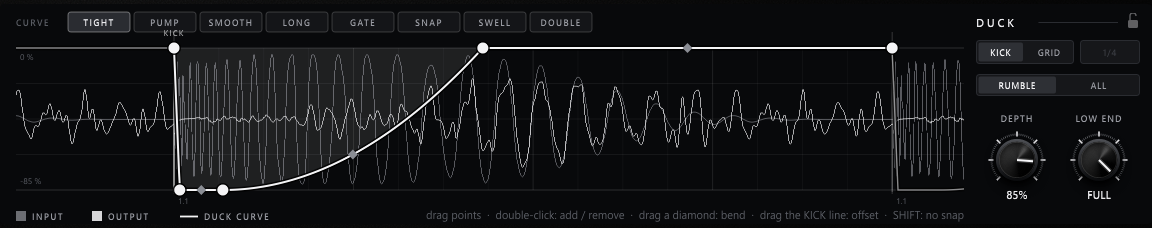
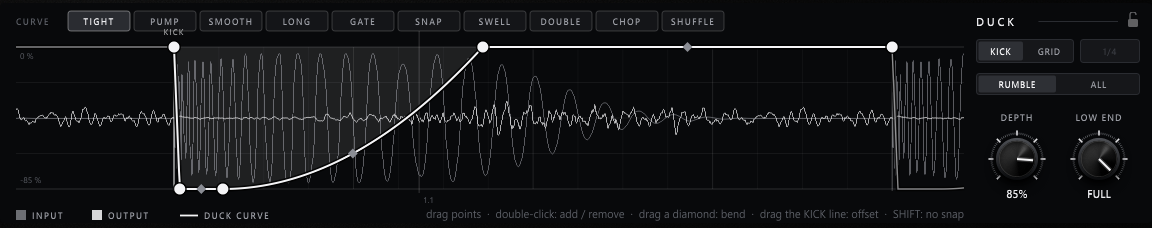
Blackveil: CHOP and SHUFFLE duck curve presets
CHOP ducks on every 16th note (a gate); SHUFFLE ducks fully on the kick, then to 45 % on the swung
8th (2/3 of the beat). Two more header buttons; RANDOM picks them, CHOP's DEPTH capped at 85 %.
Manual (EN / FR) and its duck / overview screenshots updated.

diff --git a/projects/Blackveil/Scripts/Interface.js b/projects/Blackveil/Scripts/Interface.js
@@ -395,6 +395,8 @@ const var ENGINE_CTL = {"btnFx0On": [BV_FILTER_ON, 1.0], "cmbFltType": [BV_FILTE
 const var BV_DUCK_LENGTH = 41;
 const var DUCK_LENGTHS = ["1/32", "1/16", "1/8", "1/4", "1/2", "1 BAR"];
 const var DUCK_LENGTH_BEATS = [0.125, 0.25, 0.5, 1.0, 2.0, 4.0];
+// (CHOP: a 16th-note gate, four dips a beat; SHUFFLE: a full duck, then a shallower one on the
+// swung 8th, 2/3 of the beat; 2026-10-31, user)
 const var DUCK_PRESETS = {"TIGHT": [[0, 1, 0], [0.008, 0, 0], [0.068, 0, 0], [0.43, 1, 0.4], [1, 1, 0]],
                           "PUMP": [[0, 1, 0], [0.03, 0, 0], [0.92, 1, 0.7], [1, 1, 0]],
                           "SMOOTH": [[0, 1, 0], [0.12, 0.05, -0.5], [0.8, 1, -0.3], [1, 1, 0]],
@@ -403,8 +405,13 @@ const var DUCK_PRESETS = {"TIGHT": [[0, 1, 0], [0.008, 0, 0], [0.068, 0, 0], [0.
                           "SNAP": [[0, 1, 0], [0.005, 0, 0], [0.25, 1, -0.6], [1, 1, 0]],
                           "SWELL": [[0, 1, 0], [0.01, 0, 0], [1, 1, 0.8]],
                           "DOUBLE": [[0, 1, 0], [0.01, 0, 0], [0.2, 0.7, -0.3], [0.5, 0.7, 0], [0.52, 0.2, 0],
-                                     [0.9, 1, 0.3], [1, 1, 0]]};
-const var DUCK_PRESET_NAMES = ["TIGHT", "PUMP", "SMOOTH", "LONG", "GATE", "SNAP", "SWELL", "DOUBLE"];
+                                     [0.9, 1, 0.3], [1, 1, 0]],
+                          "CHOP": [[0, 1, 0], [0.01, 0, 0], [0.2, 1, -0.5], [0.25, 1, 0], [0.26, 0, 0], [0.45, 1, -0.5],
+                                   [0.5, 1, 0], [0.51, 0, 0], [0.7, 1, -0.5], [0.75, 1, 0], [0.76, 0, 0], [0.95, 1, -0.5],
+                                   [1, 1, 0]],
+                          "SHUFFLE": [[0, 1, 0], [0.01, 0, 0], [0.4, 1, -0.5], [0.66, 1, 0], [0.68, 0.45, 0],
+                                      [0.95, 1, -0.4], [1, 1, 0]]};
+const var DUCK_PRESET_NAMES = ["TIGHT", "PUMP", "SMOOTH", "LONG", "GATE", "SNAP", "SWELL", "DOUBLE", "CHOP", "SHUFFLE"];
 var duckPts = [];
 // LENGTH is always 1/4 since 2026-10-30 (user: "we only need 1/4"): a stored or random length is
 // ignored; DUCK_LENGTHS and the stored "length" stay (presets and sessions hold one)
@@ -3108,7 +3115,7 @@ const var RAND_NO_RECIPE = {"name": "", "weight": 0, "on": [], "after": [], "kno
 const var RAND_FLT_CUTOFF = [[100, 1500], [100, 1500], [60, 250], [60, 250], [20, 60], [20, 60],
                              [100, 1500], [100, 1500], [100, 1500], [40, 200]];
 const var RAND_FLT_FLOOR = 50;            // Hz: a negative ENV takes CUTOFF no lower (but HP)
-const var RAND_DUCK_HARD = ["LONG", "GATE"];   // curves that hold the rumble down for most of the beat
+const var RAND_DUCK_HARD = ["LONG", "GATE", "CHOP"];   // curves that hold the rumble down for most of the beat (CHOP: four times)
 const var RAND_DUCK_HARD_MAX = 85;        // their DEPTH at most
 const var RAND_POWER_IDS = ["btnFx0On", "btnFx1On", "btnFx2On", "btnFx3On", "btnEqOn", "btnGrnOn"];
 var randLastRecipe = "";                  // (for tests: the last roll's recipe)

diff --git a/projects/Blackveil/Scripts/ScriptProcessors/Blackveil/Interface.js b/projects/Blackveil/Scripts/ScriptProcessors/Blackveil/Interface.js
@@ -395,6 +395,8 @@ const var ENGINE_CTL = {"btnFx0On": [BV_FILTER_ON, 1.0], "cmbFltType": [BV_FILTE
 const var BV_DUCK_LENGTH = 41;
 const var DUCK_LENGTHS = ["1/32", "1/16", "1/8", "1/4", "1/2", "1 BAR"];
 const var DUCK_LENGTH_BEATS = [0.125, 0.25, 0.5, 1.0, 2.0, 4.0];
+// (CHOP: a 16th-note gate, four dips a beat; SHUFFLE: a full duck, then a shallower one on the
+// swung 8th, 2/3 of the beat; 2026-10-31, user)
 const var DUCK_PRESETS = {"TIGHT": [[0, 1, 0], [0.008, 0, 0], [0.068, 0, 0], [0.43, 1, 0.4], [1, 1, 0]],
                           "PUMP": [[0, 1, 0], [0.03, 0, 0], [0.92, 1, 0.7], [1, 1, 0]],
                           "SMOOTH": [[0, 1, 0], [0.12, 0.05, -0.5], [0.8, 1, -0.3], [1, 1, 0]],
@@ -403,8 +405,13 @@ const var DUCK_PRESETS = {"TIGHT": [[0, 1, 0], [0.008, 0, 0], [0.068, 0, 0], [0.
                           "SNAP": [[0, 1, 0], [0.005, 0, 0], [0.25, 1, -0.6], [1, 1, 0]],
                           "SWELL": [[0, 1, 0], [0.01, 0, 0], [1, 1, 0.8]],
                           "DOUBLE": [[0, 1, 0], [0.01, 0, 0], [0.2, 0.7, -0.3], [0.5, 0.7, 0], [0.52, 0.2, 0],
-                                     [0.9, 1, 0.3], [1, 1, 0]]};
-const var DUCK_PRESET_NAMES = ["TIGHT", "PUMP", "SMOOTH", "LONG", "GATE", "SNAP", "SWELL", "DOUBLE"];
+                                     [0.9, 1, 0.3], [1, 1, 0]],
+                          "CHOP": [[0, 1, 0], [0.01, 0, 0], [0.2, 1, -0.5], [0.25, 1, 0], [0.26, 0, 0], [0.45, 1, -0.5],
+                                   [0.5, 1, 0], [0.51, 0, 0], [0.7, 1, -0.5], [0.75, 1, 0], [0.76, 0, 0], [0.95, 1, -0.5],
+                                   [1, 1, 0]],
+                          "SHUFFLE": [[0, 1, 0], [0.01, 0, 0], [0.4, 1, -0.5], [0.66, 1, 0], [0.68, 0.45, 0],
+                                      [0.95, 1, -0.4], [1, 1, 0]]};
+const var DUCK_PRESET_NAMES = ["TIGHT", "PUMP", "SMOOTH", "LONG", "GATE", "SNAP", "SWELL", "DOUBLE", "CHOP", "SHUFFLE"];
 var duckPts = [];
 // LENGTH is always 1/4 since 2026-10-30 (user: "we only need 1/4"): a stored or random length is
 // ignored; DUCK_LENGTHS and the stored "length" stay (presets and sessions hold one)
@@ -3108,7 +3115,7 @@ const var RAND_NO_RECIPE = {"name": "", "weight": 0, "on": [], "after": [], "kno
 const var RAND_FLT_CUTOFF = [[100, 1500], [100, 1500], [60, 250], [60, 250], [20, 60], [20, 60],
                              [100, 1500], [100, 1500], [100, 1500], [40, 200]];
 const var RAND_FLT_FLOOR = 50;            // Hz: a negative ENV takes CUTOFF no lower (but HP)
-const var RAND_DUCK_HARD = ["LONG", "GATE"];   // curves that hold the rumble down for most of the beat
+const var RAND_DUCK_HARD = ["LONG", "GATE", "CHOP"];   // curves that hold the rumble down for most of the beat (CHOP: four times)
 const var RAND_DUCK_HARD_MAX = 85;        // their DEPTH at most
 const var RAND_POWER_IDS = ["btnFx0On", "btnFx1On", "btnFx2On", "btnFx3On", "btnEqOn", "btnGrnOn"];
 var randLastRecipe = "";                  // (for tests: the last roll's recipe)

diff --git a/projects/Blackveil/CLAUDE.md b/projects/Blackveil/CLAUDE.md
@@ -177,7 +177,8 @@ engine was wired module by module (below; every module since 2026-10-29; host pa
   `src/vital_filters.h`). Never call DuskVerb's reset() (it drops its prepared engines).
 - DUCK: the curve is a list of breakpoints `duckPts` ([x, y, bend]) over LENGTH (41 DuckLength,
   beats: `DUCK_LENGTHS`), edited in the visualizer (`cePaint` / `ceMouse`), with
-  presets (`DUCK_PRESETS`: since 2026-10-30 one button each in the visualizer's header, in the
+  presets (`DUCK_PRESETS`, ten since 2026-10-31: CHOP, a 16th-note gate, and SHUFFLE, a
+  second shallower dip on the swung 8th, are the rhythmic ones; since 2026-10-30 one button each in the visualizer's header, in the
   LENGTH pills' place, lit when the curve matches one, `duckPresetMatch`; `cmbDuckPreset` hidden).
   LENGTH is always 1/4 since then (user: "we only need 1/4"; `DUCK_LEN_FIXED`: a stored, random
   or make_presets length is ignored). `duckSend` writes the points into the engine's slider pack 0
@@ -298,7 +299,7 @@ engine was wired module by module (below; every module since 2026-10-29; host pa
   rules for every new sound: CUTOFF's range by TYPE (`RAND_FLT_CUTOFF`: HP 20..60, BP 60..250, the
   low passes 100..1500), a negative ENV goes no lower than 50 Hz (`RAND_FLT_FLOOR`), no REVERB and
   no DELAY on: REVERB (else DELAY) on, DELAY as the only tail FEEDBACK >= 45 and MIX >= 50, SUB CUT
-  <= 35 under a low pass below 150 Hz, DEPTH <= 85 for LONG / GATE. Before, a roll with only FILTER
+  <= 35 under a low pass below 150 Hz, DEPTH <= 85 for LONG / GATE / CHOP. Before, a roll with only FILTER
   (an HP or BP at 1..2 kHz possible) or DIST had no tail, and DUCK took the rest. MUTATE uses none
   of this (the knobs move +-7 % as before). `randLastRecipe` names the last roll's recipe (tests). Never SOURCE, KEY, SEND GATE, DUCK's trigger /
   TARGET, levels, OUTPUT, LIMITER. Each control is set with `setValue` + `changed()` (its callback

diff --git a/projects/Blackveil/PROGRESS.md b/projects/Blackveil/PROGRESS.md
@@ -473,3 +473,10 @@
   Therapy, Sub Dirty, Tube Hammer 2; new Movement: Distant Club, Feedback Pong, Sub Groove 1..3;
   new Sub: Sub Density; Movement/Deep Haze, the user's "Init 2"). 22 presets. Version 0.4.1 (so the plugin unpacks them). Init stays all
   defaults (the tutorial starts from it).
+- 2026-10-31: two rhythmic duck curve presets (user: "add two additional curve presets with a
+  rythmic feel"; chose CHOP and SHUFFLE of three suggested, TRIPLET not taken): CHOP = four dips a
+  beat, one per 16th (13 points), SHUFFLE = a full duck, then a dip to 45 % at 2/3 of the beat
+  (7 points). Two more header buttons (they end at x 724, inside the visualizer); RANDOM picks them
+  too, CHOP's DEPTH capped at 85 like LONG / GATE (`RAND_DUCK_HARD`). Tested in HISE: each button
+  loads its curve and lights (`duckPresetMatch`), screenshots. Manual EN / FR updated. Manual screenshots
+  duck.png and overview.png retaken. Plugin build (204 s), installed. Not heard yet.

diff --git a/docs/fr/blackveil/duck.md b/docs/fr/blackveil/duck.md
@@ -37,8 +37,10 @@ Le verrou au bout du titre de DUCK empêche RANDOM de modifier la courbe.
 ## Presets de courbe {#curve-presets}
 
 Les boutons CURVE en haut du visualiseur chargent une courbe : **TIGHT, PUMP, SMOOTH, LONG, GATE,
-SNAP, SWELL, DOUBLE**. Le bouton s'allume tant que la courbe lui correspond. Charger un preset garde
-votre OFFSET.
+SNAP, SWELL, DOUBLE, CHOP, SHUFFLE**. Le bouton s'allume tant que la courbe lui correspond. Deux
+sont rythmiques : **CHOP** baisse le rumble sur chaque double croche, comme un gate ; **SHUFFLE** le
+baisse à fond sur le kick, puis moins sur la croche swinguée (aux deux tiers du temps). Charger
+un preset garde votre OFFSET.
 
 ## Éditer la courbe {#editing-the-curve}
 

diff --git a/docs/blackveil/duck.md b/docs/blackveil/duck.md
@@ -37,7 +37,9 @@ The lock at the end of DUCK's title keeps RANDOM from changing the curve.
 ## Curve presets
 
 The CURVE buttons along the visualizer's top row load a curve: **TIGHT, PUMP, SMOOTH, LONG, GATE, SNAP,
-SWELL, DOUBLE**. The button lights while the curve matches it. Loading a preset keeps your OFFSET.
+SWELL, DOUBLE, CHOP, SHUFFLE**. The button lights while the curve matches it. Two of them are
+rhythmic: **CHOP** ducks on every 16th note, like a gate; **SHUFFLE** ducks fully on the kick, then
+again, less, on the swung 8th (two thirds of the beat). Loading a preset keeps your OFFSET.
 
 ## Editing the curve
 
